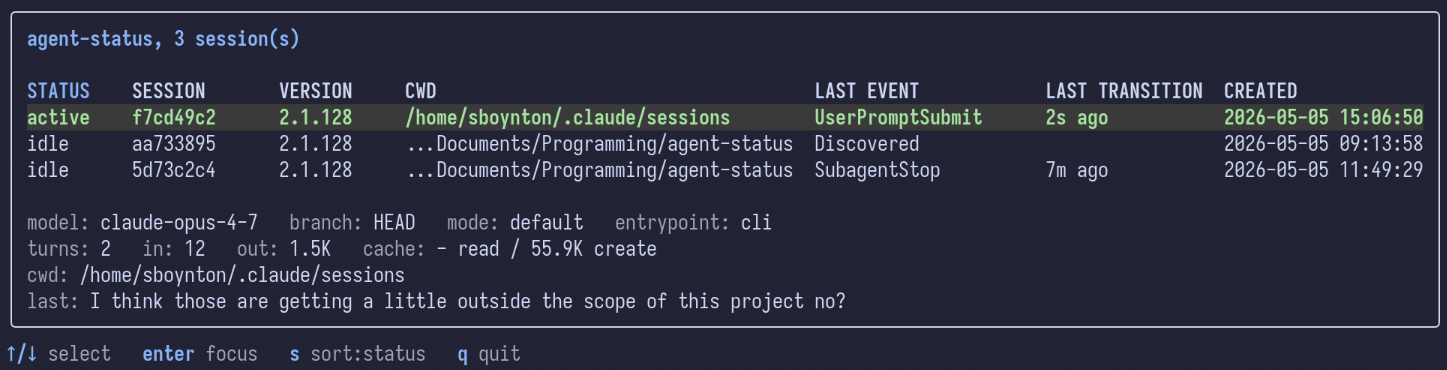
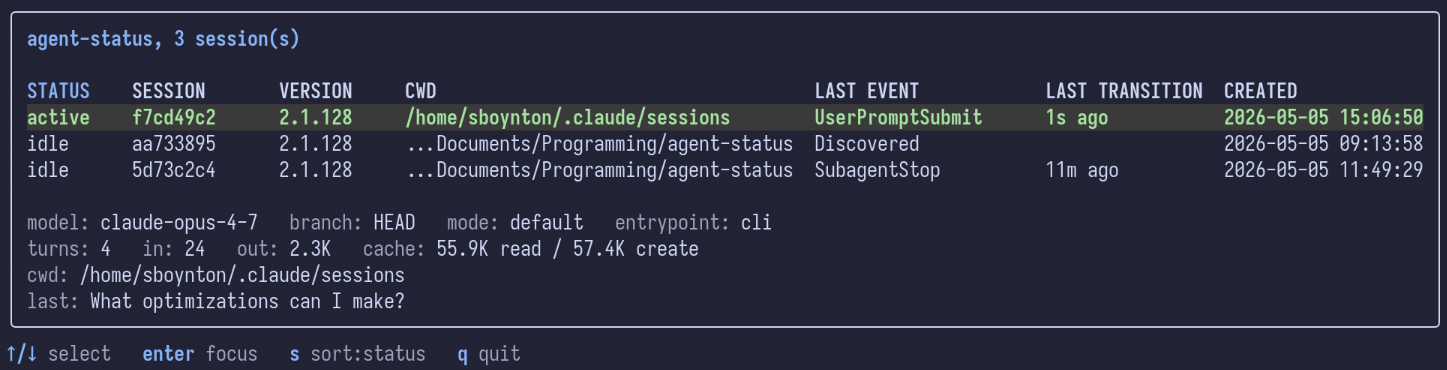
chore(readme): fix up readme; compress screenshot

diff --git a/README.md b/README.md
@@ -6,20 +6,20 @@ An API and live status board for Claude Code session management.
 
 ## Install
 
-#### Release tarball
+### Release tarball
 ```sh
-curl -L https://github.com/<owner>/<repo>/releases/latest/download/agent-status_<version>_linux-amd64.tar.gz | tar xz
+curl -L https://github.com/samling/agent-status/releases/latest/download/agent-status_<version>_linux-amd64.tar.gz | tar xz
 sudo install agent-status_*/agent-status /usr/local/bin/
 ```
 
-#### From source
+### From source
 ```sh
-go install github.com/<owner>/<repo>/cmd/agent-status@latest
+go install github.com/samling/agent-status/cmd/agent-status@latest
 ```
 
-#### Build it yourself
+### Build it yourself
 ```sh
-git clone https://github.com/<owner>/<repo>.git
+git clone https://github.com/samling/agent-status.git
 cd <repo>
 make install
 ```
@@ -30,7 +30,7 @@ Claude Code fires [hooks](https://code.claude.com/docs/en/hooks) on session even
 
 ## Setup
 
-> Requirements: `jq make`
+> **Requirements:** `jq make`
 
 The fastest path, from a clone of this repo:
 
@@ -81,7 +81,3 @@ make build      # bin/agent-status
 make test       # go test ./...
 make clean
 ```
-
-A tagged release (`git tag v0.1.0 && git push --tags`) triggers
-`.github/workflows/release.yml` to build linux/darwin amd64+arm64
-binaries and attach them to the GitHub release.
